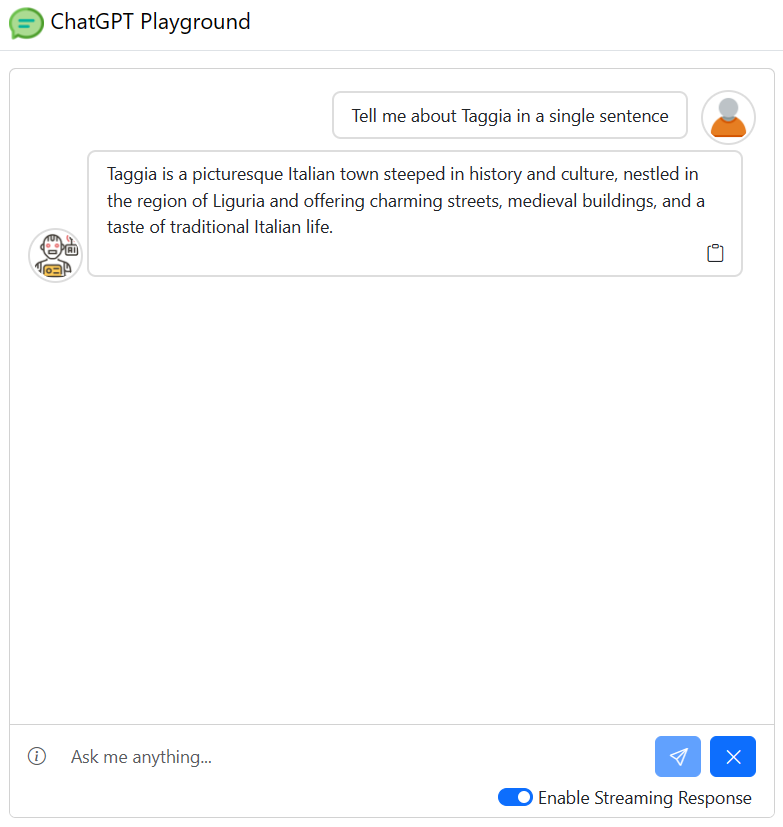
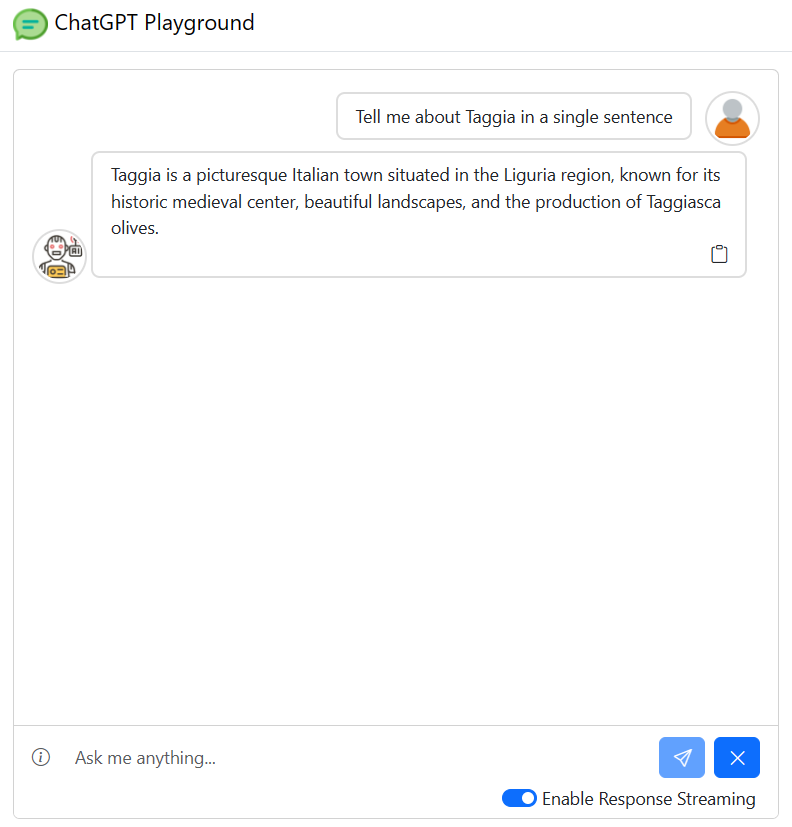
Documentation update

diff --git a/README.md b/README.md
@@ -7,8 +7,44 @@
 
 A ready-to-use ASP.NET Core chat application backed by a Minimal API that can be used to test ChatGPT workflows.
 
+![](https://raw.githubusercontent.com/marcominerva/ChatGptPlayground/master/assets/Playground.png)
+
 ## Introduction
 
 Chat Playground provided by [OpenAI](https://chat.openai.com) and [Azure OpenAI service](https://oai.azure.com/chat) are great tools to showcase ChatGPT capabilities, but they are not always suitable for testing purposes. In a real-world application, we typically need to integrate ChatGPT with our workflows, and we need to test it in a controlled environment. For example, we may want to use ChatGPT in conjuction with other services (like Azure Cognitive Search or third-party APIs). In these cases, we need a simple chat application that can be easily customized to fit our needs. **ChatGPT Playgroud for .NET** aims to address this requirement by providing a simple chat-like application already integrated with ChatGPT, with a Minimal API that can be easily customize to add custom workflows. In other words, it is a starting point for testing custom interaction with ChatGPT.
 
 ## Getting Started
+
+The Playground uses [ChatGptNet](https://github.com/marcominerva/ChatGptNet) for interacting with ChatGPT. The registration is made in [Program.cs](https://github.com/marcominerva/ChatGptPlayground/blob/master/src/ChatGptPlayground/Program.cs#L30):
+
+    builder.Services.AddChatGpt(builder.Configuration);
+    
+You can refer to the official documentation available on GitHub for more details about this library and how to configure it.
+
+In any case, you can safely replace this library with the one you prefer.
+
+When the user sends a message using the Playground, it is received by the Minimal API that, in turn, calls the [ChatService](https://github.com/marcominerva/ChatGptPlayground/blob/master/src/ChatGptPlayground.BusinessLayer/Services/ChatService.cs):
+
+    public class ChatService : IChatService
+    {
+        public async Task<Result<ChatResponse>> AskAsync(ChatRequest request)
+        {
+            // ...
+        }
+
+        public IAsyncEnumerable<string> AskStreamAsync(ChatRequest request)
+        {
+            // ...
+        }
+    }
+
+The **AskAsync** method is called when the _Enable Response Streaming_ switch is disabled in the Playground, while **AskStreamAsync** is invoked when the switch is enabled:
+
+![](https://raw.githubusercontent.com/marcominerva/ChatGptPlayground/master/assets/ResponseStreaming.png)
+
+The [ChatRequest](https://github.com/marcominerva/ChatGptPlayground/blob/master/src/ChatGptPlayground.Shared/Models/ChatRequest.cs) argument contains the user message. The default implementations call the corresponding methods on [ChatGptNet](https://github.com/marcominerva/ChatGptNet). You can replace them with your own logic.
+
+### Contribute
+
+The project is constantly evolving. Contributions are welcome. Feel free to file issues and pull requests on the repo and we'll address them as we can.
+
